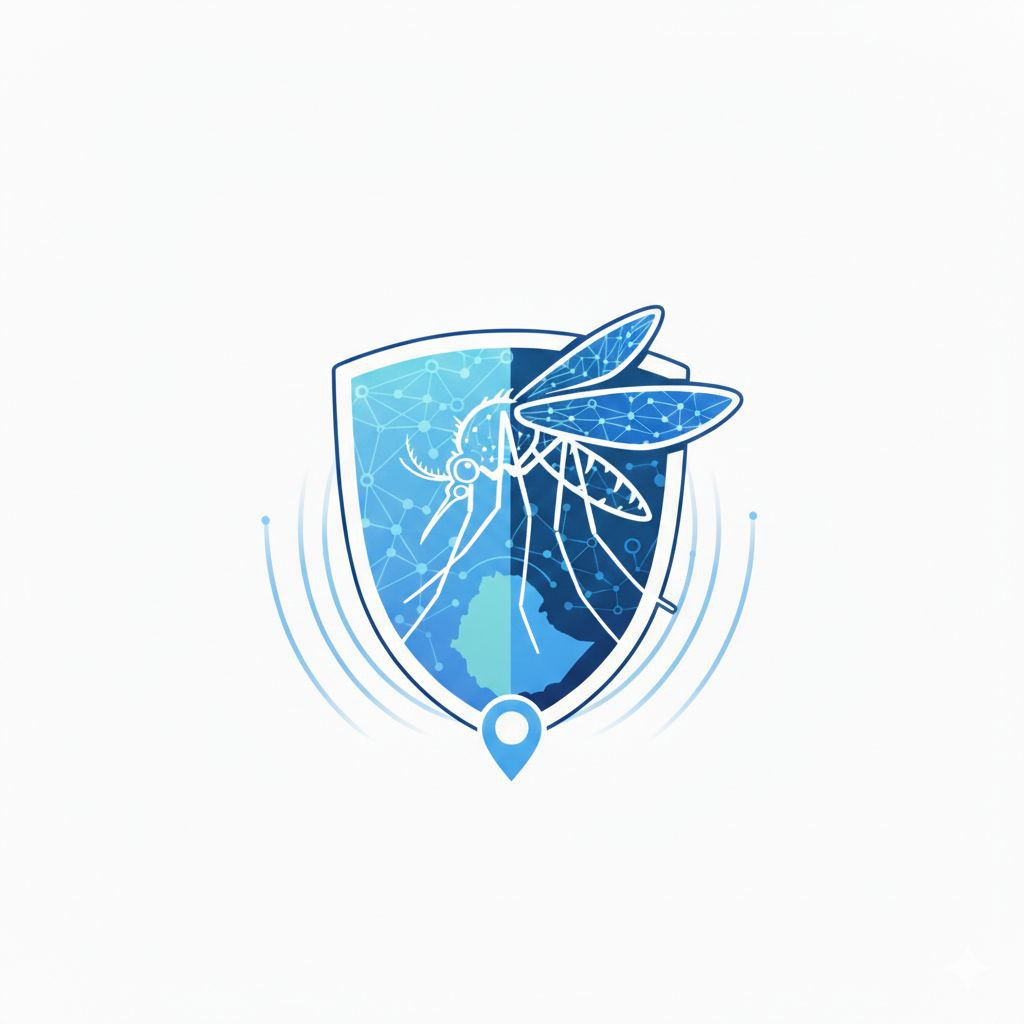
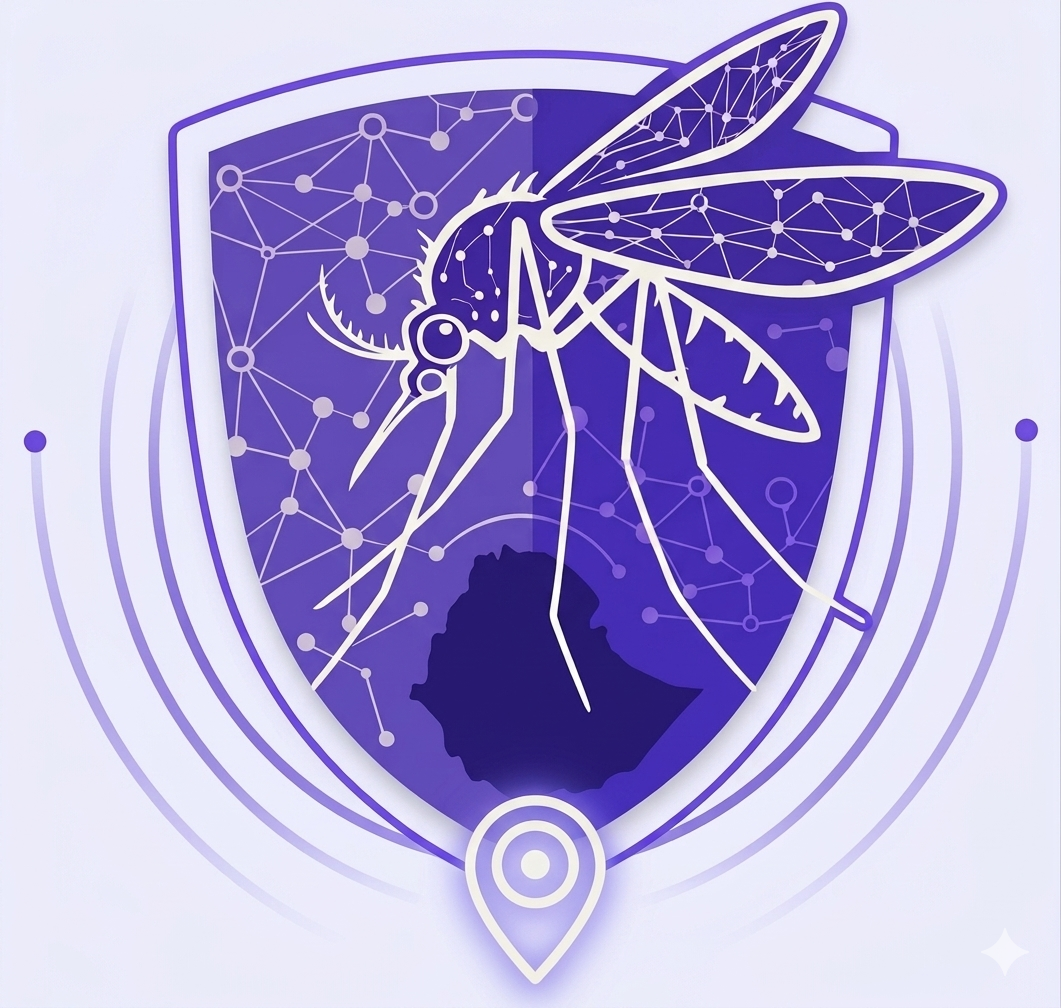
admin bug fix

diff --git a/frontend/app/data-use-policy/page.tsx b/frontend/app/data-use-policy/page.tsx
@@ -1,0 +1,167 @@
+import Link from 'next/link';
+import { ArrowLeft } from 'lucide-react';
+import { LogoWordmark } from '@/components/brand/logo';
+
+export default function DataUsePolicyPage() {
+  return (
+    <div className="min-h-screen bg-background px-6 py-12">
+      <div className="mx-auto max-w-4xl">
+        {/* Header */}
+        <div className="mb-8">
+          <Link 
+            href="/"
+            className="inline-flex items-center gap-2 text-sm text-muted-foreground hover:text-foreground transition-colors group mb-6"
+          >
+            <ArrowLeft className="size-3.5 transition-transform group-hover:-translate-x-1" strokeWidth={1.5} />
+            <span className="font-mono uppercase tracking-wider">Back to Home</span>
+          </Link>
+          
+          <LogoWordmark caption="Policy · Data Use" size={32} />
+        </div>
+
+        {/* Content */}
+        <div className="glass-panel p-8 md:p-12 rounded-2xl space-y-8">
+          <div>
+            <h1 className="font-display text-3xl font-bold tracking-tight mb-2">
+              Data Use Policy
+            </h1>
+            <p className="text-sm text-muted-foreground">
+              Effective Date: June 2026
+            </p>
+          </div>
+
+          <section className="space-y-4">
+            <h2 className="font-display text-xl font-semibold">1. Purpose</h2>
+            <p className="text-sm leading-relaxed text-muted-foreground">
+              This Data Use Policy governs the collection, use, and protection of data within the MalaSafe malaria surveillance system. MalaSafe is operated by the Ethiopian Public Health Institute (EPHI) and the Ministry of Health (MOH) to support national malaria elimination efforts.
+            </p>
+          </section>
+
+          <section className="space-y-4">
+            <h2 className="font-display text-xl font-semibold">2. Authorized Use</h2>
+            <p className="text-sm leading-relaxed text-muted-foreground">
+              Access to MalaSafe is restricted to authorized personnel including:
+            </p>
+            <ul className="list-disc list-inside space-y-2 text-sm text-muted-foreground ml-4">
+              <li>Ministry of Health (MOH) officers</li>
+              <li>Ethiopian Public Health Institute (EPHI) officers</li>
+              <li>Regional health officers</li>
+              <li>System administrators</li>
+            </ul>
+            <p className="text-sm leading-relaxed text-muted-foreground">
+              Users must only access data necessary for their official duties and must not share access credentials with unauthorized individuals.
+            </p>
+          </section>
+
+          <section className="space-y-4">
+            <h2 className="font-display text-xl font-semibold">3. Data Collection</h2>
+            <p className="text-sm leading-relaxed text-muted-foreground">
+              MalaSafe collects and processes the following types of data:
+            </p>
+            <ul className="list-disc list-inside space-y-2 text-sm text-muted-foreground ml-4">
+              <li><strong>Epidemiological Data:</strong> Malaria case reports, disease surveillance data, and outbreak information</li>
+              <li><strong>Environmental Data:</strong> Climate data, temperature, rainfall, and geographical information</li>
+              <li><strong>User Activity:</strong> Login records, actions performed, and system access logs</li>
+              <li><strong>Predictive Analytics:</strong> Machine learning model predictions and risk assessments</li>
+            </ul>
+          </section>
+
+          <section className="space-y-4">
+            <h2 className="font-display text-xl font-semibold">4. Data Protection</h2>
+            <p className="text-sm leading-relaxed text-muted-foreground">
+              All data within MalaSafe is protected through:
+            </p>
+            <ul className="list-disc list-inside space-y-2 text-sm text-muted-foreground ml-4">
+              <li>Role-based access control (RBAC)</li>
+              <li>Encrypted data transmission (HTTPS/TLS)</li>
+              <li>Secure password requirements and multi-factor authentication options</li>
+              <li>Comprehensive audit logging of all system activities</li>
+              <li>Regular security assessments and monitoring</li>
+            </ul>
+          </section>
+
+          <section className="space-y-4">
+            <h2 className="font-display text-xl font-semibold">5. Data Retention</h2>
+            <p className="text-sm leading-relaxed text-muted-foreground">
+              Malaria surveillance data is retained indefinitely for historical analysis and trend monitoring. User activity logs are retained for a minimum of 2 years for security and compliance purposes. Data may be archived according to national health data retention policies.
+            </p>
+          </section>
+
+          <section className="space-y-4">
+            <h2 className="font-display text-xl font-semibold">6. Prohibited Activities</h2>
+            <p className="text-sm leading-relaxed text-muted-foreground">
+              Users must not:
+            </p>
+            <ul className="list-disc list-inside space-y-2 text-sm text-muted-foreground ml-4">
+              <li>Access, modify, or delete data without proper authorization</li>
+              <li>Share login credentials or allow unauthorized access</li>
+              <li>Download or export data for personal or non-official use</li>
+              <li>Attempt to circumvent security measures</li>
+              <li>Introduce malicious software or interfere with system operations</li>
+            </ul>
+          </section>
+
+          <section className="space-y-4">
+            <h2 className="font-display text-xl font-semibold">7. Monitoring and Compliance</h2>
+            <p className="text-sm leading-relaxed text-muted-foreground">
+              All system activity is monitored and logged. Unauthorized or suspicious activity may result in:
+            </p>
+            <ul className="list-disc list-inside space-y-2 text-sm text-muted-foreground ml-4">
+              <li>Account suspension or termination</li>
+              <li>Reporting to supervisory authorities</li>
+              <li>Legal action in accordance with Ethiopian law</li>
+            </ul>
+          </section>
+
+          <section className="space-y-4">
+            <h2 className="font-display text-xl font-semibold">8. User Responsibilities</h2>
+            <p className="text-sm leading-relaxed text-muted-foreground">
+              All authorized users are responsible for:
+            </p>
+            <ul className="list-disc list-inside space-y-2 text-sm text-muted-foreground ml-4">
+              <li>Maintaining the confidentiality of their access credentials</li>
+              <li>Immediately reporting any suspected security breaches</li>
+              <li>Using the system only for authorized public health purposes</li>
+              <li>Logging out when leaving their workstation</li>
+              <li>Complying with all applicable data protection regulations</li>
+            </ul>
+          </section>
+
+          <section className="space-y-4">
+            <h2 className="font-display text-xl font-semibold">9. Contact Information</h2>
+            <p className="text-sm leading-relaxed text-muted-foreground">
+              For questions about this policy or to report security concerns, contact:
+            </p>
+            <div className="bg-muted/50 rounded-lg p-4 space-y-2">
+              <p className="text-sm">
+                <strong>Email:</strong>{' '}
+                <a href="mailto:[email redacted]" className="text-primary hover:underline">
+                  [email redacted]
+                </a>
+              </p>
+              <p className="text-sm">
+                <strong>Phone:</strong>{' '}
+                <a href="tel:[phone redacted]" className="text-primary hover:underline">
+                  [phone redacted]
+                </a>
+              </p>
+            </div>
+          </section>
+
+          <section className="space-y-4">
+            <h2 className="font-display text-xl font-semibold">10. Policy Updates</h2>
+            <p className="text-sm leading-relaxed text-muted-foreground">
+              This policy may be updated periodically to reflect changes in technology, regulations, or operational requirements. Users will be notified of significant changes through the system.
+            </p>
+          </section>
+
+          <div className="pt-6 border-t border-border">
+            <p className="text-xs text-muted-foreground text-center">
+              © 2026 Ethiopian Public Health Institute (EPHI) & Ministry of Health (MOH)
+            </p>
+          </div>
+        </div>
+      </div>
+    </div>
+  );
+}

diff --git a/frontend/app/(auth)/change-password/page.tsx b/frontend/app/(auth)/change-password/page.tsx
@@ -331,8 +331,13 @@ export default function ChangePasswordPage() {
 
         {/* Security Notice */}
         <div className="mt-6 text-center">
-          <p className="text-[10px] text-muted-foreground/70 leading-relaxed">
+          <p className="text-xs text-muted-foreground/70 leading-relaxed">
             Your password must be unique and not used for other accounts. Never share your password with anyone.
+          </p>
+          <p className="text-xs text-muted-foreground/50 mt-2">
+            <a href="/data-use-policy" className="hover:text-primary transition-colors">
+              Data Use Policy
+            </a>
           </p>
         </div>
       </div>

diff --git a/frontend/app/(auth)/login/page.tsx b/frontend/app/(auth)/login/page.tsx
@@ -462,6 +462,11 @@ function LoginForm() {
             <p className="text-xs text-muted-foreground/70 leading-relaxed">
               {t.securityNotice}
             </p>
+            <p className="text-xs text-muted-foreground/50 mt-2">
+              <a href="/data-use-policy" className="hover:text-primary transition-colors">
+                {language === 'en' ? 'Data Use Policy' : language === 'am' ? 'የመረጃ አጠቃቀም ፖሊሲ' : language === 'om' ? 'Imaammata Itti Fayyadama Deetaa' : 'ፖሊሲ ኣጠቓቕማ ዳታ'}
+              </a>
+            </p>
           </div>
         </div>
 

diff --git a/backend/app/routes/admin.py b/backend/app/routes/admin.py
@@ -163,7 +163,7 @@ class SystemHealthResponse(BaseModel):
     dependencies=[Depends(require_admin)]
 )
 async def list_users(
-    role: Optional[UserRole] = Query(None, description="Filter by role"),
+    role: Optional[str] = Query(None, description="Filter by role"),
     is_active: Optional[bool] = Query(None, description="Filter by active status"),
     db: AsyncSession = Depends(get_db),
     current_user: User = Depends(require_admin)
@@ -184,7 +184,16 @@ async def list_users(
         
         if role:
             logger.info(f"Applying role filter: {role}")
-            query = query.where(User.role == role)
+            # Validate the role string is a valid UserRole value
+            if role not in [r.value for r in UserRole]:
+                logger.error(f"Invalid role value: {role}")
+                raise HTTPException(
+                    status_code=status.HTTP_400_BAD_REQUEST,
+                    detail=f"Invalid role: {role}"
+                )
+            # Use cast to text to avoid PostgreSQL enum comparison issues
+            from sqlalchemy import cast, Text
+            query = query.where(cast(User.role, Text) == role)
         if is_active is not None:
             logger.info(f"Applying is_active filter: {is_active}")
             query = query.where(User.is_active == is_active)
@@ -208,6 +217,9 @@ async def list_users(
         logger.info(f"Returning {len(response_users)} users")
         return response_users
         
+    except HTTPException:
+        # Re-raise HTTP exceptions (like 400 Bad Request)
+        raise
     except Exception as e:
         logger.error(f"Error in list_users: {str(e)}", exc_info=True)
         raise HTTPException(
@@ -559,8 +571,9 @@ async def delete_user(
     
     # Prevent deleting the last admin
     if user.role == UserRole.ADMIN:
+        from sqlalchemy import cast, Text
         admin_count_result = await db.execute(
-            select(func.count(User.id)).where(User.role == UserRole.ADMIN)
+            select(func.count(User.id)).where(cast(User.role, Text) == UserRole.ADMIN.value)
         )
         admin_count = admin_count_result.scalar()
         if admin_count <= 1:

diff --git a/backend/app/models/user.py b/backend/app/models/user.py
@@ -26,7 +26,7 @@ class User(Base):
     email = Column(String, unique=True, index=True, nullable=False)
     password_hash = Column(String, nullable=False)
     role = Column(
-        SQLEnum(UserRole, values_callable=lambda enum_cls: [member.value for member in enum_cls]),
+        SQLEnum(UserRole, values_callable=lambda enum_cls: [member.value for member in enum_cls], native_enum=False),
         nullable=False,
         default=UserRole.PUBLIC_USER,
     )